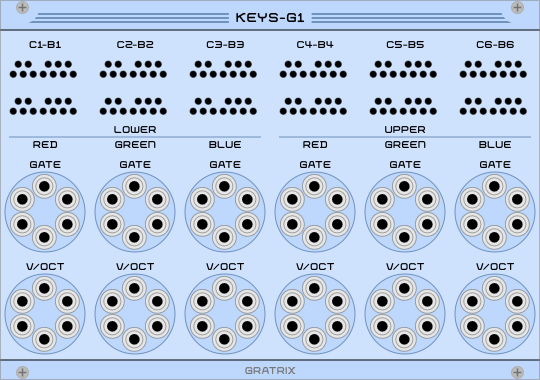
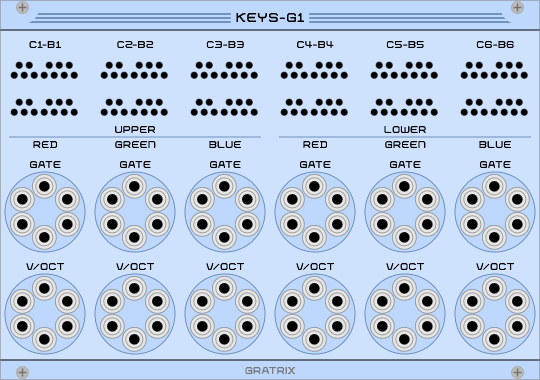
Swap sides for upper and lower inputs so that it is compatible with a dual manual organ.

diff --git a/src/Keys-G1.cpp b/src/Keys-G1.cpp
@@ -110,10 +110,10 @@ Widget::Widget()
 		pg.line(Vec(fx(3-.4), fy(0.36)), Vec(fx(5+.4), fy(0.36)), "fill:none;stroke:#7092BE;stroke-width:1");
 
 		                              pg.nob_med(0, 0.7, "RED"  ); pg.nob_med(0, -0.28, "C1-B1");
-		pg.nob_med(1, 0.55, "LOWER"); pg.nob_med(1, 0.7, "GREEN"); pg.nob_med(1, -0.28, "C2-B2");
+		pg.nob_med(1, 0.55, "UPPER"); pg.nob_med(1, 0.7, "GREEN"); pg.nob_med(1, -0.28, "C2-B2");
 		                              pg.nob_med(2, 0.7, "BLUE" ); pg.nob_med(2, -0.28, "C3-B3");
 		                              pg.nob_med(3, 0.7, "RED"  ); pg.nob_med(3, -0.28, "C4-B4");
-		pg.nob_med(4, 0.55, "UPPER"); pg.nob_med(4, 0.7, "GREEN"); pg.nob_med(4, -0.28, "C5-B5");
+		pg.nob_med(4, 0.55, "LOWER"); pg.nob_med(4, 0.7, "GREEN"); pg.nob_med(4, -0.28, "C5-B5");
 		                              pg.nob_med(5, 0.7, "BLUE" ); pg.nob_med(5, -0.28, "C6-B6");
 
 		pg.bus_in(0, 1, "GATE"); pg.bus_in(0, 2, "V/OCT");
@@ -161,34 +161,34 @@ Widget::Widget()
 
 	for (std::size_t i=0; i<6; ++i)
 	{
-		addChild(createLight<SmallLight<RedGreenBlueLight>>(led(gx(i) - 30, fy(0+0.08) + 5), module, Impl::KEY_LIGHT_1 + 3 * (i * 12 +  0)));  // C
-		addChild(createLight<SmallLight<RedGreenBlueLight>>(led(gx(i) - 25, fy(0+0.08) - 5), module, Impl::KEY_LIGHT_1 + 3 * (i * 12 +  1)));  // C#
-		addChild(createLight<SmallLight<RedGreenBlueLight>>(led(gx(i) - 20, fy(0+0.08) + 5), module, Impl::KEY_LIGHT_1 + 3 * (i * 12 +  2)));  // D
-		addChild(createLight<SmallLight<RedGreenBlueLight>>(led(gx(i) - 15, fy(0+0.08) - 5), module, Impl::KEY_LIGHT_1 + 3 * (i * 12 +  3)));  // Eb
-		addChild(createLight<SmallLight<RedGreenBlueLight>>(led(gx(i) - 10, fy(0+0.08) + 5), module, Impl::KEY_LIGHT_1 + 3 * (i * 12 +  4)));  // E
-		addChild(createLight<SmallLight<RedGreenBlueLight>>(led(gx(i)     , fy(0+0.08) + 5), module, Impl::KEY_LIGHT_1 + 3 * (i * 12 +  5)));  // F
-		addChild(createLight<SmallLight<RedGreenBlueLight>>(led(gx(i) +  5, fy(0+0.08) - 5), module, Impl::KEY_LIGHT_1 + 3 * (i * 12 +  6)));  // Fs
-		addChild(createLight<SmallLight<RedGreenBlueLight>>(led(gx(i) + 10, fy(0+0.08) + 5), module, Impl::KEY_LIGHT_1 + 3 * (i * 12 +  7)));  // G
-		addChild(createLight<SmallLight<RedGreenBlueLight>>(led(gx(i) + 15, fy(0+0.08) - 5), module, Impl::KEY_LIGHT_1 + 3 * (i * 12 +  8)));  // Ab
-		addChild(createLight<SmallLight<RedGreenBlueLight>>(led(gx(i) + 20, fy(0+0.08) + 5), module, Impl::KEY_LIGHT_1 + 3 * (i * 12 +  9)));  // A
-		addChild(createLight<SmallLight<RedGreenBlueLight>>(led(gx(i) + 25, fy(0+0.08) - 5), module, Impl::KEY_LIGHT_1 + 3 * (i * 12 + 10)));  // Bb
-		addChild(createLight<SmallLight<RedGreenBlueLight>>(led(gx(i) + 30, fy(0+0.08) + 5), module, Impl::KEY_LIGHT_1 + 3 * (i * 12 + 11)));  // B
+		addChild(createLight<SmallLight<RedGreenBlueLight>>(led(gx(i) - 30, fy(0+0.08) + 5), module, Impl::KEY_LIGHT_2 + 3 * (i * 12 +  0)));  // C
+		addChild(createLight<SmallLight<RedGreenBlueLight>>(led(gx(i) - 25, fy(0+0.08) - 5), module, Impl::KEY_LIGHT_2 + 3 * (i * 12 +  1)));  // C#
+		addChild(createLight<SmallLight<RedGreenBlueLight>>(led(gx(i) - 20, fy(0+0.08) + 5), module, Impl::KEY_LIGHT_2 + 3 * (i * 12 +  2)));  // D
+		addChild(createLight<SmallLight<RedGreenBlueLight>>(led(gx(i) - 15, fy(0+0.08) - 5), module, Impl::KEY_LIGHT_2 + 3 * (i * 12 +  3)));  // Eb
+		addChild(createLight<SmallLight<RedGreenBlueLight>>(led(gx(i) - 10, fy(0+0.08) + 5), module, Impl::KEY_LIGHT_2 + 3 * (i * 12 +  4)));  // E
+		addChild(createLight<SmallLight<RedGreenBlueLight>>(led(gx(i)     , fy(0+0.08) + 5), module, Impl::KEY_LIGHT_2 + 3 * (i * 12 +  5)));  // F
+		addChild(createLight<SmallLight<RedGreenBlueLight>>(led(gx(i) +  5, fy(0+0.08) - 5), module, Impl::KEY_LIGHT_2 + 3 * (i * 12 +  6)));  // Fs
+		addChild(createLight<SmallLight<RedGreenBlueLight>>(led(gx(i) + 10, fy(0+0.08) + 5), module, Impl::KEY_LIGHT_2 + 3 * (i * 12 +  7)));  // G
+		addChild(createLight<SmallLight<RedGreenBlueLight>>(led(gx(i) + 15, fy(0+0.08) - 5), module, Impl::KEY_LIGHT_2 + 3 * (i * 12 +  8)));  // Ab
+		addChild(createLight<SmallLight<RedGreenBlueLight>>(led(gx(i) + 20, fy(0+0.08) + 5), module, Impl::KEY_LIGHT_2 + 3 * (i * 12 +  9)));  // A
+		addChild(createLight<SmallLight<RedGreenBlueLight>>(led(gx(i) + 25, fy(0+0.08) - 5), module, Impl::KEY_LIGHT_2 + 3 * (i * 12 + 10)));  // Bb
+		addChild(createLight<SmallLight<RedGreenBlueLight>>(led(gx(i) + 30, fy(0+0.08) + 5), module, Impl::KEY_LIGHT_2 + 3 * (i * 12 + 11)));  // B
 	}
 
 	for (std::size_t i=0; i<6; ++i)
 	{
-		addChild(createLight<SmallLight<RedGreenBlueLight>>(led(gx(i) - 30, fy(0-0.28) + 5), module, Impl::KEY_LIGHT_2 + 3 * (i * 12 +  0)));  // C
-		addChild(createLight<SmallLight<RedGreenBlueLight>>(led(gx(i) - 25, fy(0-0.28) - 5), module, Impl::KEY_LIGHT_2 + 3 * (i * 12 +  1)));  // C#
-		addChild(createLight<SmallLight<RedGreenBlueLight>>(led(gx(i) - 20, fy(0-0.28) + 5), module, Impl::KEY_LIGHT_2 + 3 * (i * 12 +  2)));  // D
-		addChild(createLight<SmallLight<RedGreenBlueLight>>(led(gx(i) - 15, fy(0-0.28) - 5), module, Impl::KEY_LIGHT_2 + 3 * (i * 12 +  3)));  // Eb
-		addChild(createLight<SmallLight<RedGreenBlueLight>>(led(gx(i) - 10, fy(0-0.28) + 5), module, Impl::KEY_LIGHT_2 + 3 * (i * 12 +  4)));  // E
-		addChild(createLight<SmallLight<RedGreenBlueLight>>(led(gx(i)     , fy(0-0.28) + 5), module, Impl::KEY_LIGHT_2 + 3 * (i * 12 +  5)));  // F
-		addChild(createLight<SmallLight<RedGreenBlueLight>>(led(gx(i) +  5, fy(0-0.28) - 5), module, Impl::KEY_LIGHT_2 + 3 * (i * 12 +  6)));  // Fs
-		addChild(createLight<SmallLight<RedGreenBlueLight>>(led(gx(i) + 10, fy(0-0.28) + 5), module, Impl::KEY_LIGHT_2 + 3 * (i * 12 +  7)));  // G
-		addChild(createLight<SmallLight<RedGreenBlueLight>>(led(gx(i) + 15, fy(0-0.28) - 5), module, Impl::KEY_LIGHT_2 + 3 * (i * 12 +  8)));  // Ab
-		addChild(createLight<SmallLight<RedGreenBlueLight>>(led(gx(i) + 20, fy(0-0.28) + 5), module, Impl::KEY_LIGHT_2 + 3 * (i * 12 +  9)));  // A
-		addChild(createLight<SmallLight<RedGreenBlueLight>>(led(gx(i) + 25, fy(0-0.28) - 5), module, Impl::KEY_LIGHT_2 + 3 * (i * 12 + 10)));  // Bb
-		addChild(createLight<SmallLight<RedGreenBlueLight>>(led(gx(i) + 30, fy(0-0.28) + 5), module, Impl::KEY_LIGHT_2 + 3 * (i * 12 + 11)));  // B
+		addChild(createLight<SmallLight<RedGreenBlueLight>>(led(gx(i) - 30, fy(0-0.28) + 5), module, Impl::KEY_LIGHT_1 + 3 * (i * 12 +  0)));  // C
+		addChild(createLight<SmallLight<RedGreenBlueLight>>(led(gx(i) - 25, fy(0-0.28) - 5), module, Impl::KEY_LIGHT_1 + 3 * (i * 12 +  1)));  // C#
+		addChild(createLight<SmallLight<RedGreenBlueLight>>(led(gx(i) - 20, fy(0-0.28) + 5), module, Impl::KEY_LIGHT_1 + 3 * (i * 12 +  2)));  // D
+		addChild(createLight<SmallLight<RedGreenBlueLight>>(led(gx(i) - 15, fy(0-0.28) - 5), module, Impl::KEY_LIGHT_1 + 3 * (i * 12 +  3)));  // Eb
+		addChild(createLight<SmallLight<RedGreenBlueLight>>(led(gx(i) - 10, fy(0-0.28) + 5), module, Impl::KEY_LIGHT_1 + 3 * (i * 12 +  4)));  // E
+		addChild(createLight<SmallLight<RedGreenBlueLight>>(led(gx(i)     , fy(0-0.28) + 5), module, Impl::KEY_LIGHT_1 + 3 * (i * 12 +  5)));  // F
+		addChild(createLight<SmallLight<RedGreenBlueLight>>(led(gx(i) +  5, fy(0-0.28) - 5), module, Impl::KEY_LIGHT_1 + 3 * (i * 12 +  6)));  // Fs
+		addChild(createLight<SmallLight<RedGreenBlueLight>>(led(gx(i) + 10, fy(0-0.28) + 5), module, Impl::KEY_LIGHT_1 + 3 * (i * 12 +  7)));  // G
+		addChild(createLight<SmallLight<RedGreenBlueLight>>(led(gx(i) + 15, fy(0-0.28) - 5), module, Impl::KEY_LIGHT_1 + 3 * (i * 12 +  8)));  // Ab
+		addChild(createLight<SmallLight<RedGreenBlueLight>>(led(gx(i) + 20, fy(0-0.28) + 5), module, Impl::KEY_LIGHT_1 + 3 * (i * 12 +  9)));  // A
+		addChild(createLight<SmallLight<RedGreenBlueLight>>(led(gx(i) + 25, fy(0-0.28) - 5), module, Impl::KEY_LIGHT_1 + 3 * (i * 12 + 10)));  // Bb
+		addChild(createLight<SmallLight<RedGreenBlueLight>>(led(gx(i) + 30, fy(0-0.28) + 5), module, Impl::KEY_LIGHT_1 + 3 * (i * 12 + 11)));  // B
 	}
 }
 
